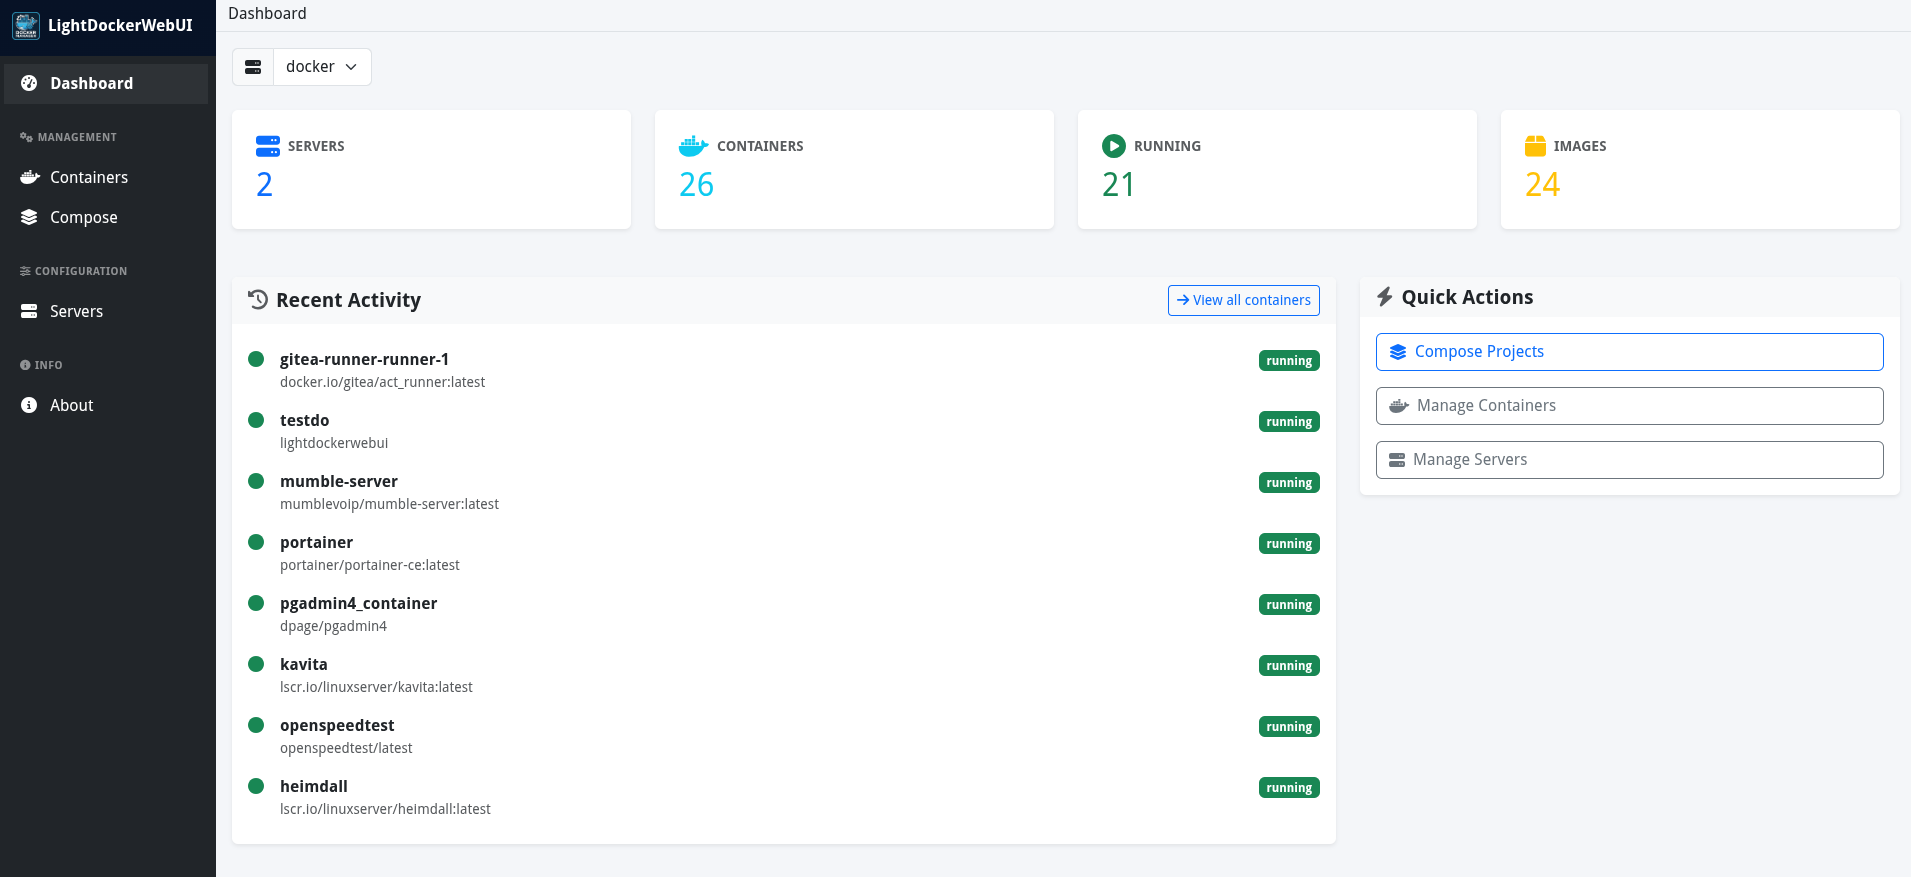
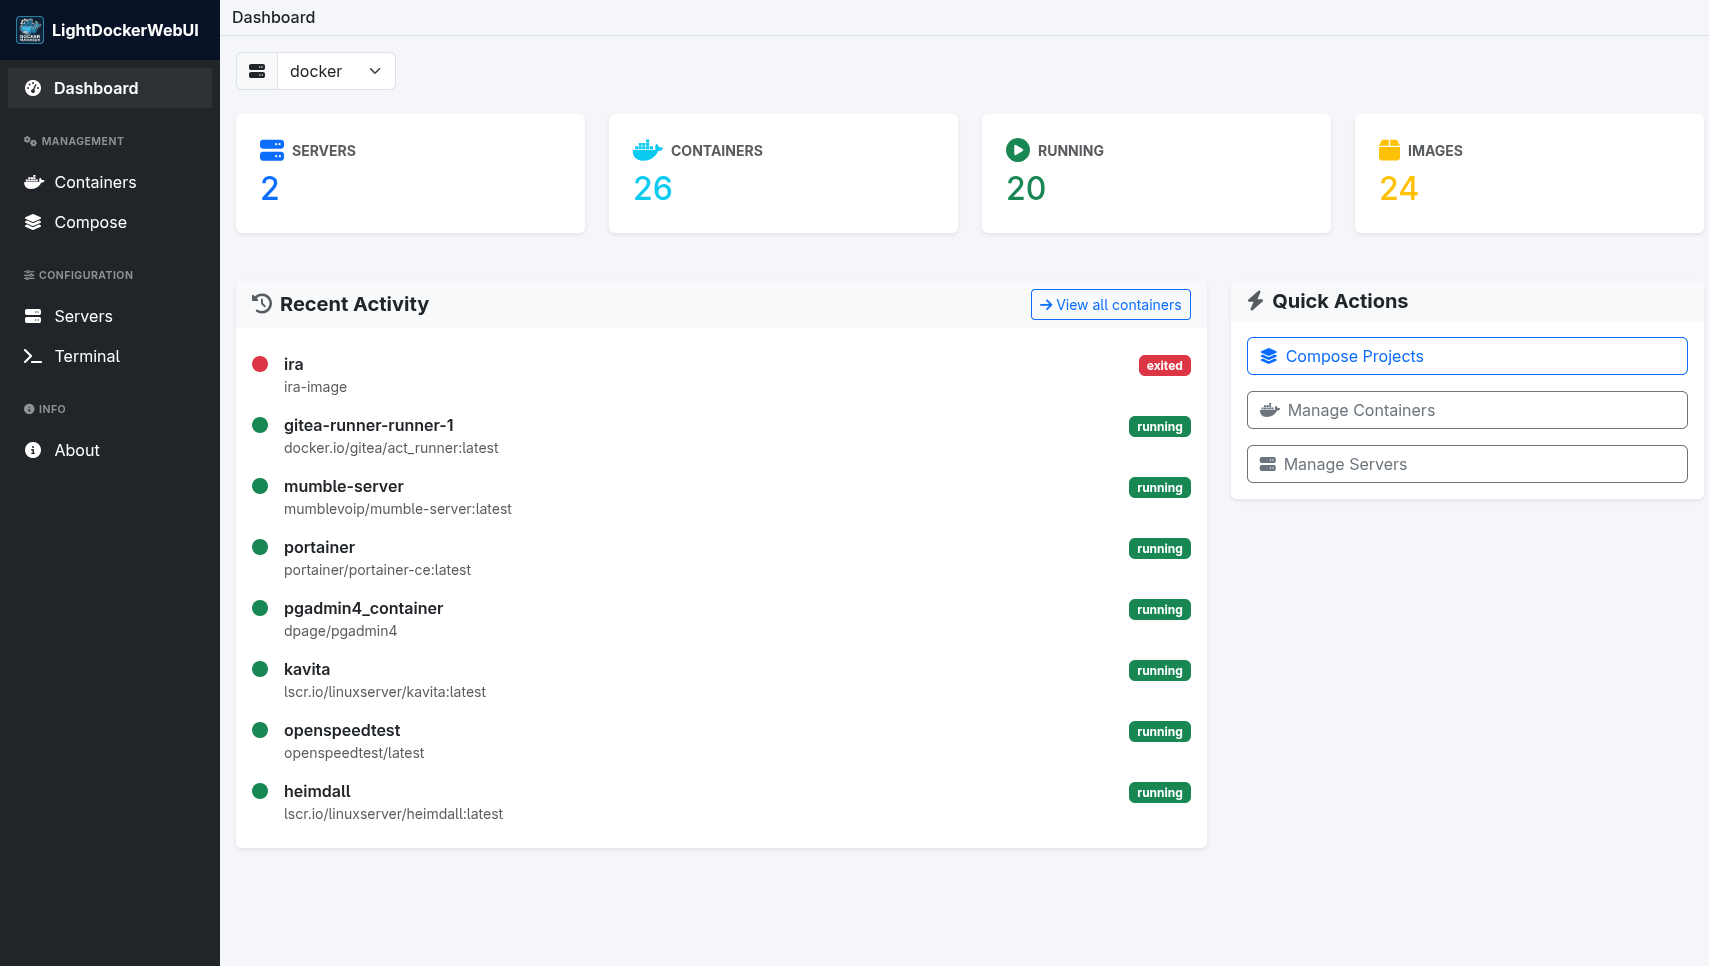
add SSH terminal functionality for Docker server management; update version to 3.0.0

diff --git a/app/templates/terminal.html b/app/templates/terminal.html
@@ -1,0 +1,84 @@
+{% extends 'base.html' %}
+{% block page_title %}Terminal — {{ server.display_name }}{% endblock %}
+
+{% block content %}
+<div class="terminal-container shadow">
+  <div class="terminal-header">
+    <div class="terminal-title">
+      <span class="terminal-dot red"></span>
+      <span class="terminal-dot yellow"></span>
+      <span class="terminal-dot green"></span>
+      <span class="text-light ms-2">Server Terminal</span>
+    </div>
+    <button type="button" class="btn btn-outline-light btn-sm" onclick="window.history.back();" title="Close terminal">
+      <i class="fa fa-times" aria-hidden="true"></i> Close
+    </button>
+  </div>
+  <div id="output" class="terminal-body">
+    <div id="terminal" style="height: 60vh; width: 100%;"></div>
+  </div>
+</div>
+
+<!-- xterm.js and fit addon (CDN) -->
+<link rel="stylesheet" href="https://cdn.jsdelivr.net/npm/xterm@5.3.0/css/xterm.css" />
+<script src="https://cdn.jsdelivr.net/npm/xterm@5.3.0/lib/xterm.js"></script>
+<script src="https://cdn.jsdelivr.net/npm/xterm-addon-fit@0.7.0/lib/xterm-addon-fit.js"></script>
+
+<script>
+  const output = document.getElementById('output');
+  const terminalContainer = document.getElementById('terminal');
+
+  // WebSocket connection (SSH) - initialized after term opens
+  const wsProtocol = location.protocol === 'https:' ? 'wss:' : 'ws:';
+
+  // Create xterm
+  const term = new Terminal({cursorBlink: true, convertEol: true});
+  const fitAddon = new FitAddon.FitAddon();
+  term.loadAddon(fitAddon);
+  term.open(terminalContainer);
+  fitAddon.fit();
+
+  const socket = new WebSocket(`${wsProtocol}//${location.host}/ssh?server={{ server.id }}`);
+  socket.binaryType = 'arraybuffer';
+
+  socket.addEventListener('open', () => {
+    term.writeln('Connected to server terminal.');
+    fitAddon.fit();
+    socket.send(JSON.stringify({type: 'resize', cols: term.cols, rows: term.rows}));
+    term.focus();
+  });
+
+  socket.addEventListener('message', (event) => {
+    if (event.data === '__CLEAR__') {
+      term.clear();
+    } else {
+      term.write(event.data);
+    }
+  });
+
+  socket.addEventListener('close', () => term.writeln('\\r\\nConnection closed.'));
+  socket.addEventListener('error', () => term.writeln('\\r\\nConnection error.'));
+
+  // Send data from terminal to server
+  term.onData((data) => {
+    try { socket.send(data); } catch (e) { /* ignore */ }
+  });
+
+  // Resize handling
+  let resizeTimeout = null;
+  window.addEventListener('resize', () => {
+    clearTimeout(resizeTimeout);
+    resizeTimeout = setTimeout(() => {
+      fitAddon.fit();
+      try { socket.send(JSON.stringify({type: 'resize', cols: term.cols, rows: term.rows})); } catch (e) { }
+    }, 150);
+  });
+
+  // Paste is handled by xterm's built-in paste handling
+
+  // Ensure focus on click
+  terminalContainer.addEventListener('click', () => term.focus());
+</script>
+</script>
+
+{% endblock %}

diff --git a/app/templates/base.html b/app/templates/base.html
@@ -73,6 +73,11 @@
               <i class="fas fa-server me-2"></i> Servers
             </a>
           </li>
+          <li class="nav-item">
+            <a class="nav-link text-white {% if request.endpoint == 'main.terminal' %}active{% endif %}" href="{{ url_for('main.terminal') }}">
+              <i class="fa fa-terminal me-2"></i> Terminal
+            </a>
+          </li>
           
           <!-- Info Section -->
           <li class="nav-header text-white-50 px-3 py-2 mt-3 mb-1">

diff --git a/app/templates/about.html b/app/templates/about.html
@@ -63,7 +63,7 @@
         <div class="row text-center">
           <div class="col-6">
             <small class="text-muted">Version</small>
-            <div class="fw-semibold">2.0.1</div>
+            <div class="fw-semibold">3.0.0</div>
           </div>
           <div class="col-6">
             <small class="text-muted">License</small>

diff --git a/app/templates/containers.html b/app/templates/containers.html
@@ -161,7 +161,7 @@
         emptyTable: 'No containers available'
       },
       lengthMenu: [[10, 25, 50, 100, -1], [10, 25, 50, 100, 'All']],
-      pageLength: 25
+      pageLength: 10
     });
 
     // Custom table search with debounce

diff --git a/app/main.py b/app/main.py
@@ -5,6 +5,8 @@ from weakref import WeakKeyDictionary
 
 import docker
 import paramiko
+import json
+import threading
 from bs4 import BeautifulSoup
 from flask import Blueprint, render_template, request, redirect, url_for, flash
 from flask_sock import Sock
@@ -478,6 +480,212 @@ def comma():
     except docker.errors.APIError as e:
         flash(f'Error accessing container: {e}', 'danger')
         return redirect(url_for('main.index'))
+
+
+@main_bp.route('/terminal', methods=['GET', 'POST'])
+def terminal():
+    """Open a terminal session to the Docker server via SSH."""
+    select_form = SelectServerForm()
+    servers = DockerServer.query.all()
+    active_server = DockerServer.get_active()
+
+    def get_server_label(s):
+        return s.display_name
+
+    select_form.server.choices = [(s.id, get_server_label(s)) for s in servers]
+
+    # Handle server selection similar to index
+    if request.method == 'POST' and 'server' in request.form:
+        server_id = None
+        if select_form.validate_on_submit():
+            server_id = select_form.server.data
+        else:
+            raw = request.form.get('server')
+            try:
+                server_id = int(raw) if raw is not None else None
+            except (TypeError, ValueError):
+                server_id = None
+            log.warning("Terminal select did not validate; fallback parsing server=%r -> %r", raw, server_id)
+
+        if server_id is None:
+            flash('Invalid server selection.', 'danger')
+            return redirect(url_for('main.terminal'))
+
+        server = DockerServer.query.get(server_id)
+        if server:
+            DockerServer.set_active(server_id)
+            _docker_client_cache.clear()
+            flash(f'Connected to "{server.display_name}".', 'success')
+        return redirect(url_for('main.terminal'))
+
+    # Determine server to connect to (query param overrides active)
+    server = None
+    r_server = request.args.get('server')
+    if r_server:
+        try:
+            server = DockerServer.query.get(int(r_server))
+        except Exception:
+            server = None
+    if not server:
+        server = active_server
+
+    if not server:
+        flash('No server configured.', 'warning')
+        return redirect(url_for('main.addcon'))
+
+    return render_template('terminal.html', server=server, select_form=select_form)
+
+
+@sock.route('/ssh')
+def ssh(sock):
+    """WebSocket handler to provide a full interactive PTY shell over SSH.
+
+    Implements a background reader thread to stream data from the SSH channel
+    to the WebSocket and accepts raw key data from the client. Clients may also
+    send a JSON message {type:'resize', cols: N, rows: M} to resize the remote
+    pty.
+    """
+    # Resolve server from query or active
+    server_id = request.args.get('server')
+    server = None
+    if server_id:
+        try:
+            server = DockerServer.query.get(int(server_id))
+        except Exception:
+            server = None
+    if not server:
+        server = DockerServer.get_active()
+
+    if not server:
+        sock.send('Error: No server configured')
+        return
+
+    # Establish SSH connection
+    try:
+        ssh_client = paramiko.SSHClient()
+        ssh_client.set_missing_host_key_policy(paramiko.AutoAddPolicy())
+        connect_kwargs = {'hostname': server.host, 'username': server.user, 'allow_agent': True, 'look_for_keys': True}
+        if server.password:
+            connect_kwargs['password'] = server.password
+        ssh_client.connect(**connect_kwargs, timeout=10)
+    except Exception as e:
+        sock.send(f'SSH connection error: {e}')
+        return
+
+    transport = ssh_client.get_transport()
+
+    # Default terminal size
+    cols = int(request.args.get('cols') or 80)
+    rows = int(request.args.get('rows') or 24)
+
+    try:
+        channel = transport.open_session()
+        channel.get_pty(term='xterm', width=cols, height=rows)
+        channel.invoke_shell()
+        channel.settimeout(0.0)
+    except Exception as e:
+        sock.send(f'Failed to open interactive shell: {e}')
+        try:
+            ssh_client.close()
+        except Exception:
+            pass
+        return
+
+    stop_event = threading.Event()
+
+    def _reader():
+        """Read from SSH channel and forward to WebSocket."""
+        try:
+            while not stop_event.is_set():
+                try:
+                    if channel.recv_ready():
+                        data = channel.recv(4096)
+                        if not data:
+                            break
+                        try:
+                            sock.send(data.decode('utf-8', errors='replace'))
+                        except Exception:
+                            break
+                    else:
+                        time.sleep(0.01)
+                except Exception:
+                    break
+        finally:
+            try:
+                sock.close()
+            except Exception:
+                pass
+
+    reader_thread = threading.Thread(target=_reader, daemon=True)
+    reader_thread.start()
+
+    try:
+        while True:
+            try:
+                data = sock.receive()
+            except Exception:
+                break
+
+            if data is None:
+                break
+
+            # Try to parse JSON control messages (e.g., resize)
+            parsed = None
+            try:
+                parsed = json.loads(data)
+            except Exception:
+                parsed = None
+
+            if isinstance(parsed, dict) and parsed.get('type') == 'resize':
+                try:
+                    c = int(parsed.get('cols', cols))
+                    r = int(parsed.get('rows', rows))
+                    channel.resize_pty(width=c, height=r)
+                except Exception as e:
+                    try:
+                        sock.send(f'Resize error: {e}')
+                    except Exception:
+                        pass
+                continue
+
+            # Local client-side commands
+            if data == 'clear':
+                try:
+                    sock.send('__CLEAR__')
+                except Exception:
+                    pass
+                continue
+
+            if data == 'exit':
+                try:
+                    sock.send('Session closed. Bye!')
+                except Exception:
+                    pass
+                break
+
+            # Raw input: send directly to SSH channel
+            try:
+                if isinstance(data, str):
+                    channel.send(data)
+                else:
+                    channel.send(str(data))
+            except Exception as e:
+                try:
+                    sock.send(f'Error sending to channel: {e}')
+                except Exception:
+                    pass
+                break
+
+    finally:
+        stop_event.set()
+        try:
+            channel.close()
+        except Exception:
+            pass
+        try:
+            ssh_client.close()
+        except Exception:
+            pass
 
 
 @main_bp.route("/stats", methods=["GET", "POST"])

diff --git a/README.md b/README.md
@@ -69,10 +69,7 @@ LightDockerWebUI is a **clean, fast, and simple** web-based Docker management to
 <td width="50%">
 
 ### 💻 Web Terminal
-- Interactive shell access
-- Full terminal emulation
-- Execute commands directly
-- No SSH required
+- Interactive shell access to remote servers via **SSH**
 
 </td>
 </tr>
@@ -197,9 +194,13 @@ LightDockerWebUI supports **multiple Docker servers**. Configure them through th
 
 1. Click **Config** in the navigation bar
 2. Add servers with a display name and connection details:
-   - **Local**: Leave host empty to use \`/var/run/docker.sock\`
+   - **Local**: Leave host empty to use `/var/run/docker.sock`
    - **Remote**: Enter IP/hostname and port (default: 2375 or 2376)
 3. Select the active server from the dropdown
+
+### Server Terminal (SSH)
+
+- A full interactive **server terminal** is available via the **Terminal** menu (under Configuration)
 
 ### Environment Variables
 
@@ -298,15 +299,6 @@ Contributions are welcome! Here's how:
 3. **Commit** changes: \`git commit -m 'Add awesome feature'\`
 4. **Push** to branch: \`git push origin feature/awesome-feature\`
 5. **Open** a Pull Request
-
-### Ideas for Contribution
-
-- [ ] Dark mode theme
-- [ ] Container stats (CPU, memory)
-- [ ] Docker Compose support
-- [ ] Image management
-- [ ] Container creation wizard
-- [ ] TLS certificate management
 
 ---
 
